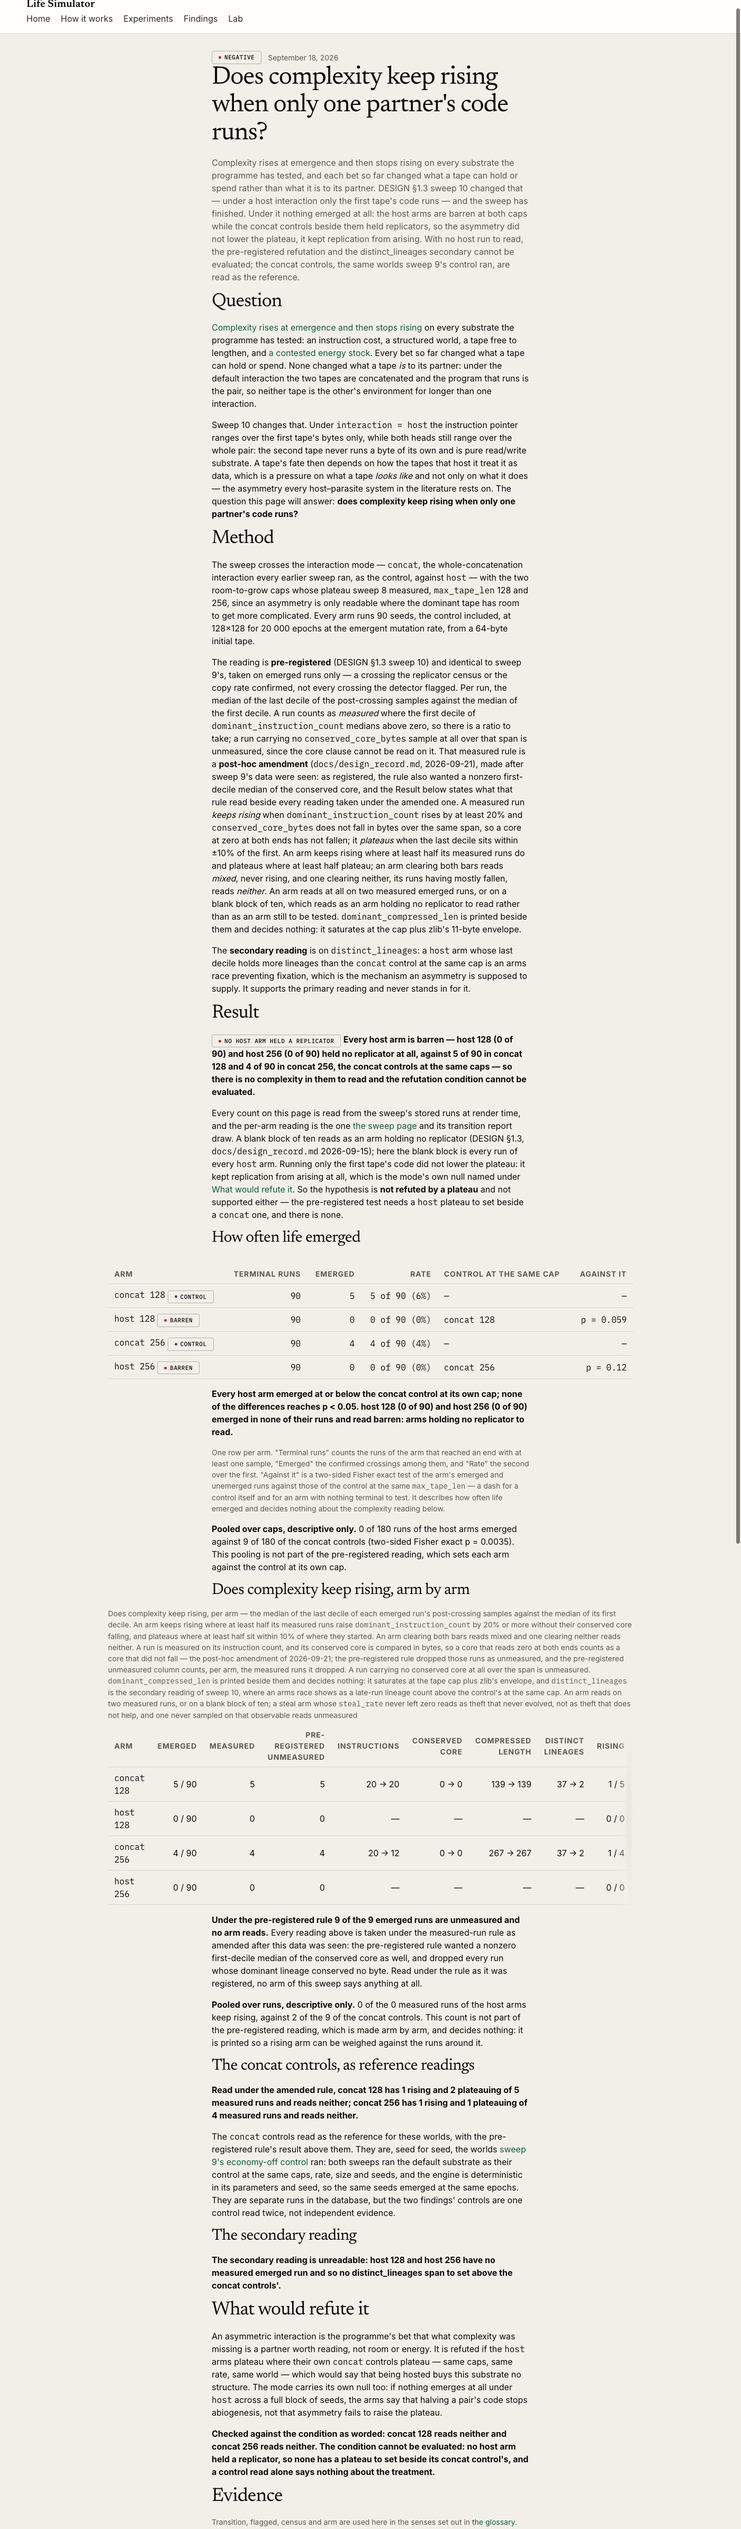
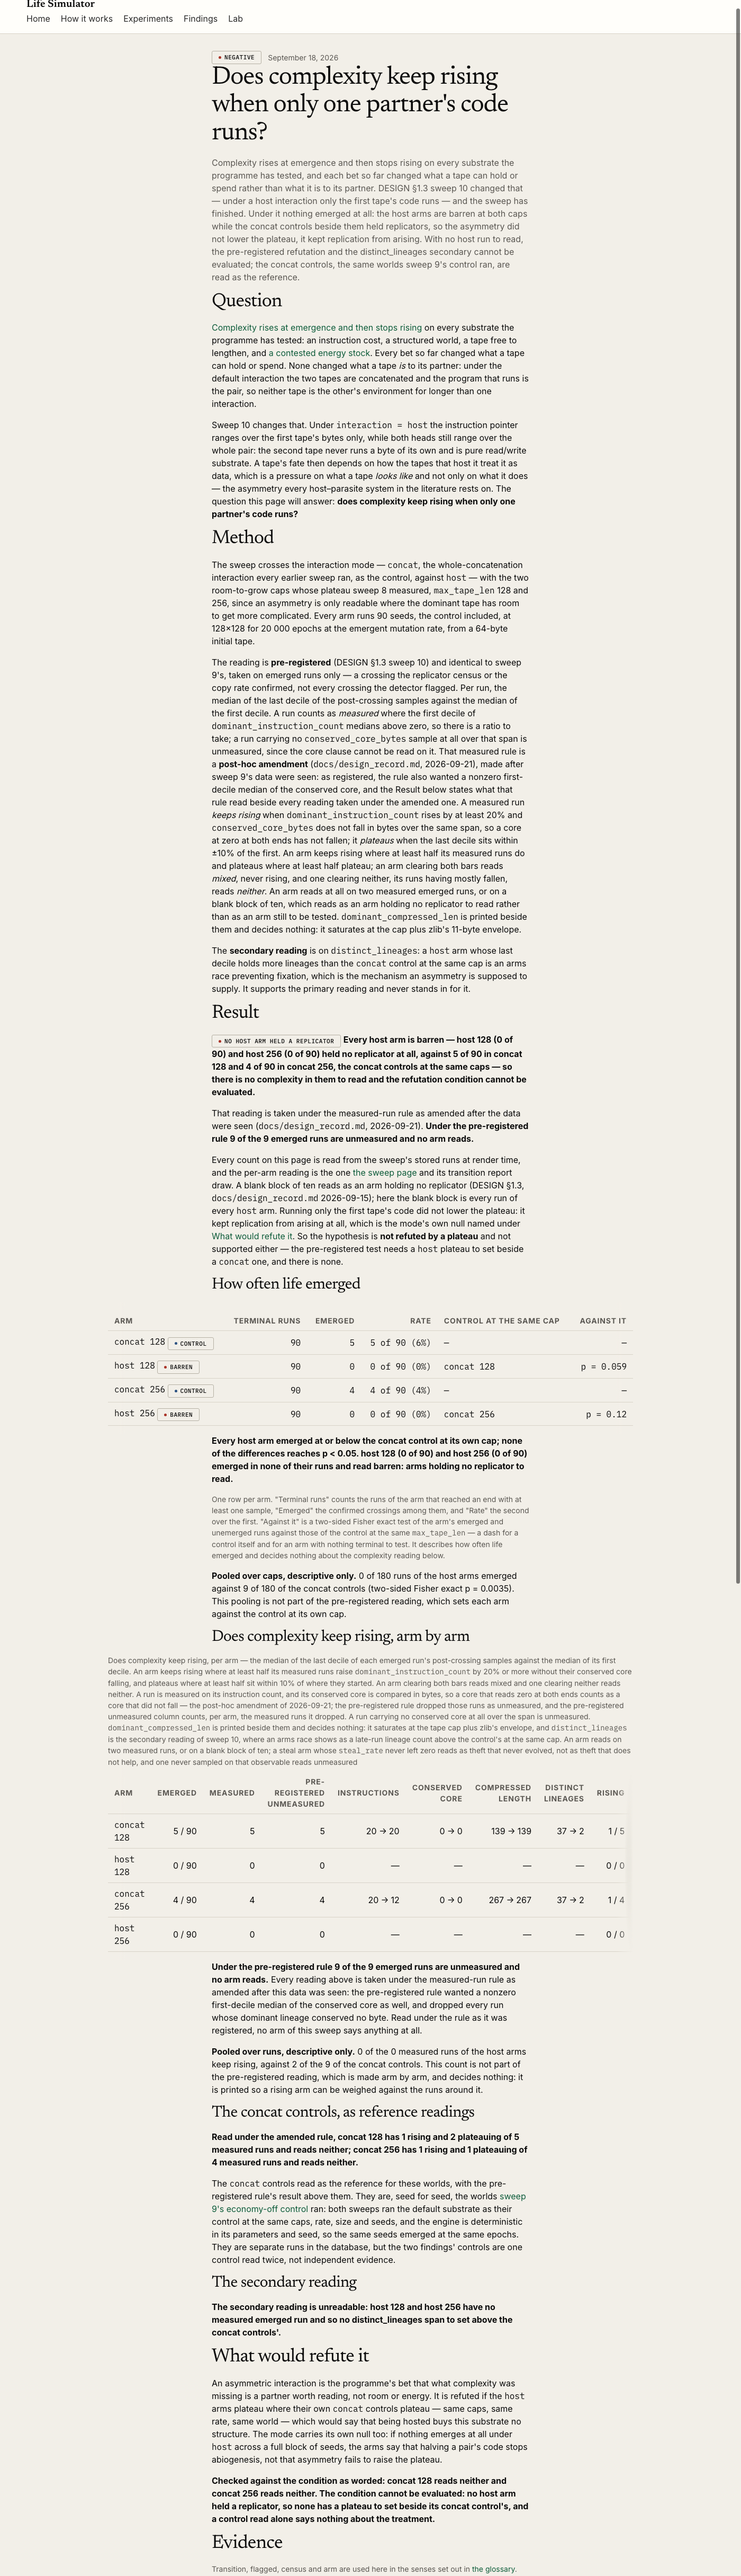
State the pre-registered result beside the asymmetry claim

diff --git a/spec/system/complexity_under_asymmetry_spec.rb b/spec/system/complexity_under_asymmetry_spec.rb
@@ -37,7 +37,10 @@ RSpec.describe "The complexity-under-asymmetry finding", type: :system do
   end
 
   it "reads the concat control under both rules as the reference" do
-    expect(page).to have_text("Under the pre-registered rule 2 of the 2 emerged runs are unmeasured and no arm reads.")
+    statement = "Under the pre-registered rule 2 of the 2 emerged runs are unmeasured and no arm reads."
+
+    within("#complexity-arms-verdict") { expect(page).to have_text(statement) }
+    expect(page).to have_text(statement, count: 2)
     expect(page).to have_text("Read under the amended rule, concat 128 has 0 rising and 1 plateauing of " \
                               "2 measured runs and reads plateau.")
     expect(page).to have_css("#complexity-reading")
